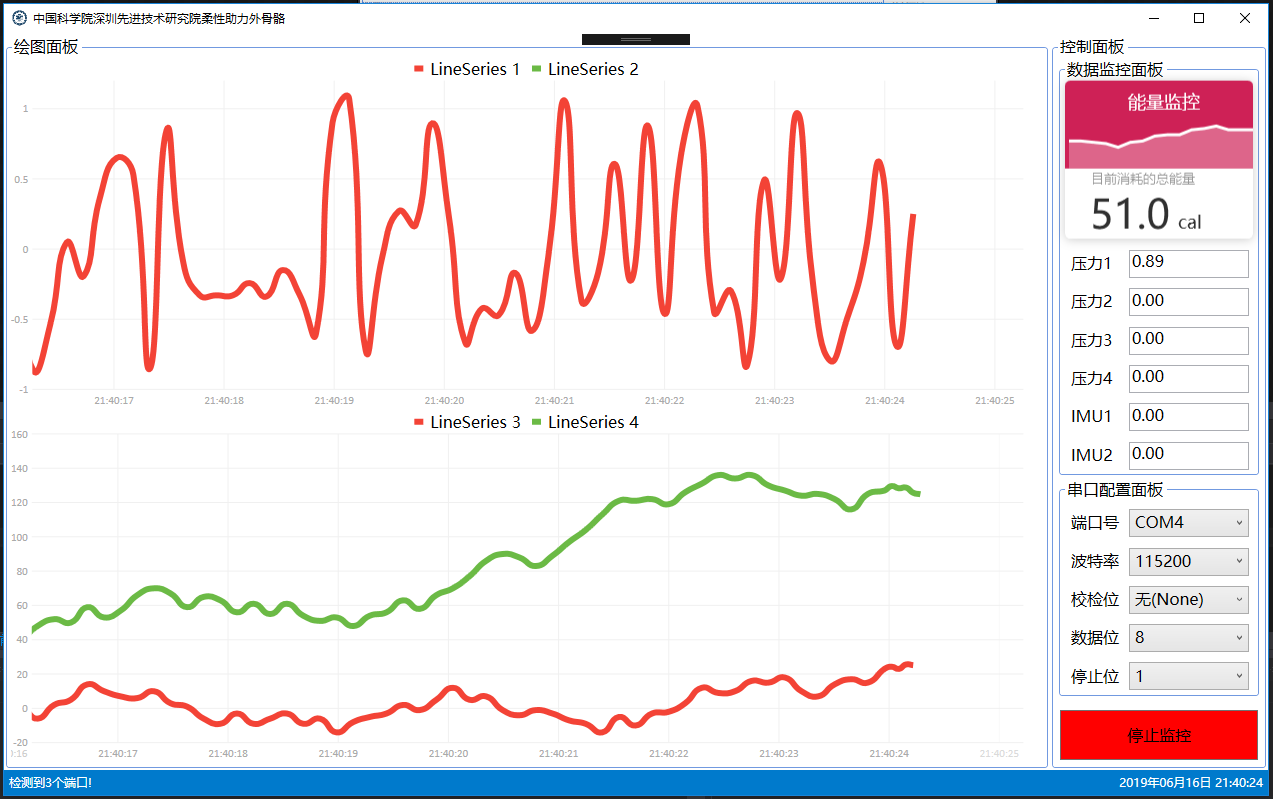
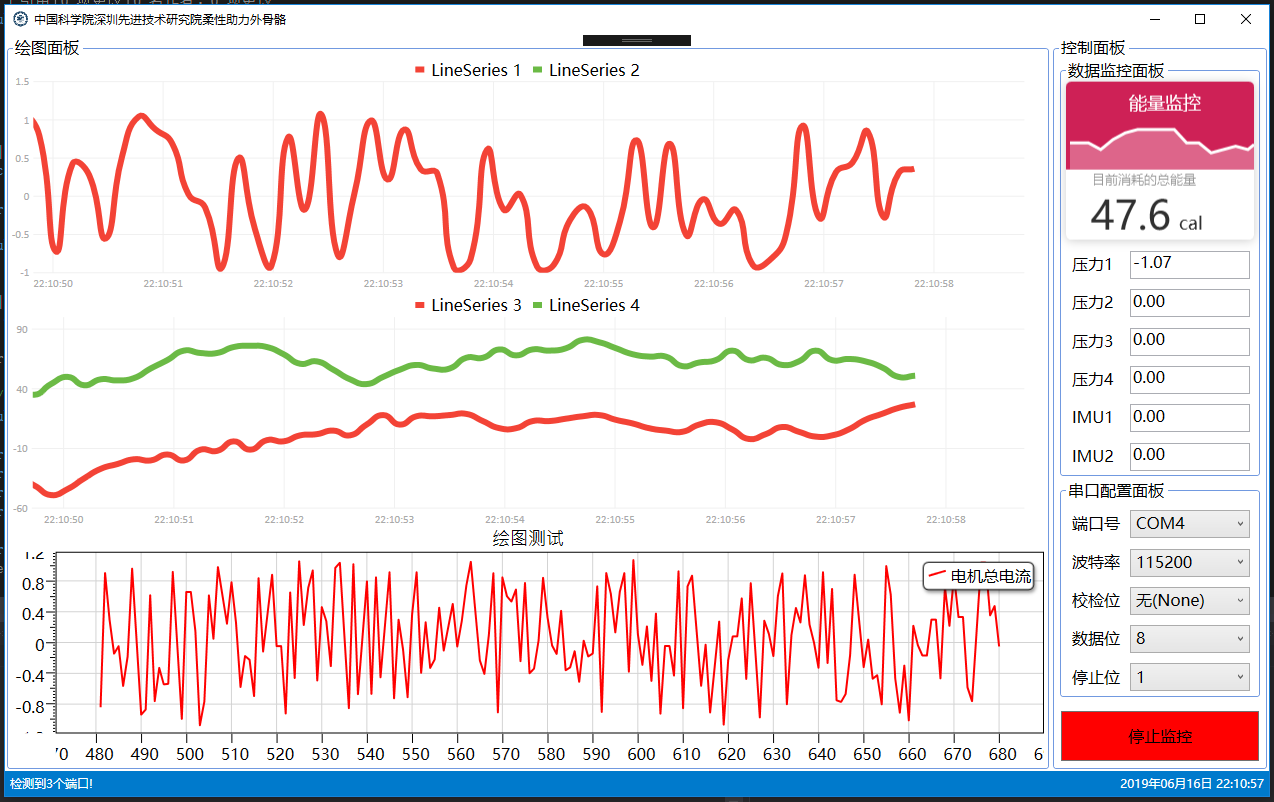
DynamicDataDisplay做测试绘图
但依然画不出正弦波

diff --git a/FlexibleExoskeleton/FlexibleExoskeleton/MainWindow.xaml b/FlexibleExoskeleton/FlexibleExoskeleton/MainWindow.xaml
@@ -314,6 +314,14 @@
                                     </lvc:CartesianChart.AxisX>
                                 </lvc:CartesianChart>
                                 <!--底部动态绘图结束-->
+
+                                <d3:ChartPlotter x:Name="CurPlot_total" Grid.Row="2">
+                                    <d3:ChartPlotter.HorizontalAxis>
+                                        <d3:HorizontalIntegerAxis x:Name="CurAx_total"/>
+                                    </d3:ChartPlotter.HorizontalAxis>
+                                    <d3:Header FontFamily="Georgia" Content="绘图测试"/>
+                                </d3:ChartPlotter>
+
                             </Grid>
                         </DockPanel>
                     </GroupBox>

diff --git a/FlexibleExoskeleton/FlexibleExoskeleton/App.xaml b/FlexibleExoskeleton/FlexibleExoskeleton/App.xaml
@@ -4,6 +4,7 @@
              xmlns:local="clr-namespace:FlexibleExoskeleton"
              StartupUri="MainWindow.xaml">
     <Application.Resources>
-         
+        <!--Author: Xingguo Long-->
+        <local:ChartPlotter x:Key="Cp"></local:ChartPlotter>
     </Application.Resources>
 </Application>

diff --git a/FlexibleExoskeleton/FlexibleExoskeleton/ChartPlotter.cs b/FlexibleExoskeleton/FlexibleExoskeleton/ChartPlotter.cs
@@ -1,0 +1,83 @@
+using System;
+using Microsoft.Research.DynamicDataDisplay.Common;
+using System.Windows.Threading;
+using System.Windows.Controls.Primitives;
+using System.Windows.Media;
+using System.Windows.Controls;
+using System.Windows;
+
+namespace FlexibleExoskeleton
+{
+    public class MyPoint //定义一个点
+    {
+        public int Date { get; set; }
+        public double _point { get; set; }
+        public MyPoint(double point, int date)
+        {
+            this.Date = date; //横坐标
+            this._point = point; //纵坐标
+        }
+    }
+
+    public class PointCollection : RingArray<MyPoint> //一幅图中显示TOTAL_POINTS个点
+    {
+        private const int TOTAL_POINTS = 200; //图上最多保存的点数
+        public PointCollection() : base(TOTAL_POINTS) { }
+    }
+
+    class ChartPlotter
+    {
+        #region 声明
+
+        //声明绘制对象
+        public PointCollection Total_pointcollection_Cur;
+
+        private DispatcherTimer timer;
+        private static ChartPlotter cp;
+        private int count;
+        private int lastCount = 0; //记录上次绘图所在位置
+
+        private Ports ports = new Ports();
+        #endregion
+
+        public ChartPlotter()
+        {
+            //为一堆点分配空间
+            Total_pointcollection_Cur = new PointCollection();
+        }
+
+        public void plotStart(Ports portsIn)
+        {
+            ports = portsIn;
+
+            timer = new DispatcherTimer();
+            timer.Interval = TimeSpan.FromMilliseconds(10);
+            timer.Tick += new EventHandler(plotTimer_Tick);
+            timer.Start();
+        }
+
+        public void plotStop()
+        {
+            timer.Stop();
+            timer.Tick -= new EventHandler(plotTimer_Tick);
+
+            lastCount = count;
+        }
+
+        private void plotTimer_Tick(object sender, EventArgs e)
+        {
+            cp = App.Current.Resources["Cp"] as ChartPlotter;
+
+            try
+            {
+                cp.Total_pointcollection_Cur.Add(new MyPoint(ports.pressures[0], count));
+            }
+            catch (Exception)
+            {
+                MessageBox.Show("绘图失败！");
+            }
+
+            count++;
+        }
+    }
+}

diff --git a/FlexibleExoskeleton/FlexibleExoskeleton/MainWindow.xaml.cs b/FlexibleExoskeleton/FlexibleExoskeleton/MainWindow.xaml.cs
@@ -22,6 +22,8 @@ using LiveCharts;
 using LiveCharts.Configurations;
 using LiveCharts.Wpf;
 using LiveCharts.Defaults;
+using Microsoft.Research.DynamicDataDisplay;
+using Microsoft.Research.DynamicDataDisplay.DataSources;
 
 namespace FlexibleExoskeleton
 {
@@ -181,6 +183,9 @@ namespace FlexibleExoskeleton
 
                 bt.Content = "停止监控";
                 bt.Background = Brushes.Red;
+
+                // 测试绘图开始
+                cp.plotStart(ports);
             }
             else
             {
@@ -190,6 +195,9 @@ namespace FlexibleExoskeleton
 
                 bt.Content = "开始监控";
                 bt.Background = Brushes.GreenYellow;
+
+                // 测试绘图停止
+                cp.plotStop();
             }
         }
         #endregion
@@ -280,6 +288,9 @@ namespace FlexibleExoskeleton
         private double _lastLecture;
         private double _trend;
 
+        //测试绘图
+        private ChartPlotter cp;
+
         public MainWindow()
         {
             InitializeComponent();      
@@ -367,6 +378,17 @@ namespace FlexibleExoskeleton
             });
 
             DataContext = this;
+            #endregion
+
+            #region 测试绘图声明
+            EnumerableDataSource<MyPoint> total_Cur;
+
+            cp = App.Current.Resources["Cp"] as ChartPlotter;
+
+            total_Cur = new EnumerableDataSource<MyPoint>(cp.Total_pointcollection_Cur);
+            total_Cur.SetXMapping(x => CurAx_total.ConvertToDouble(x.Date));
+            total_Cur.SetYMapping(y => y._point);
+            CurPlot_total.AddLineGraph(total_Cur, Colors.Red, 2, "电机总电流");
             #endregion
         }
         #endregion
